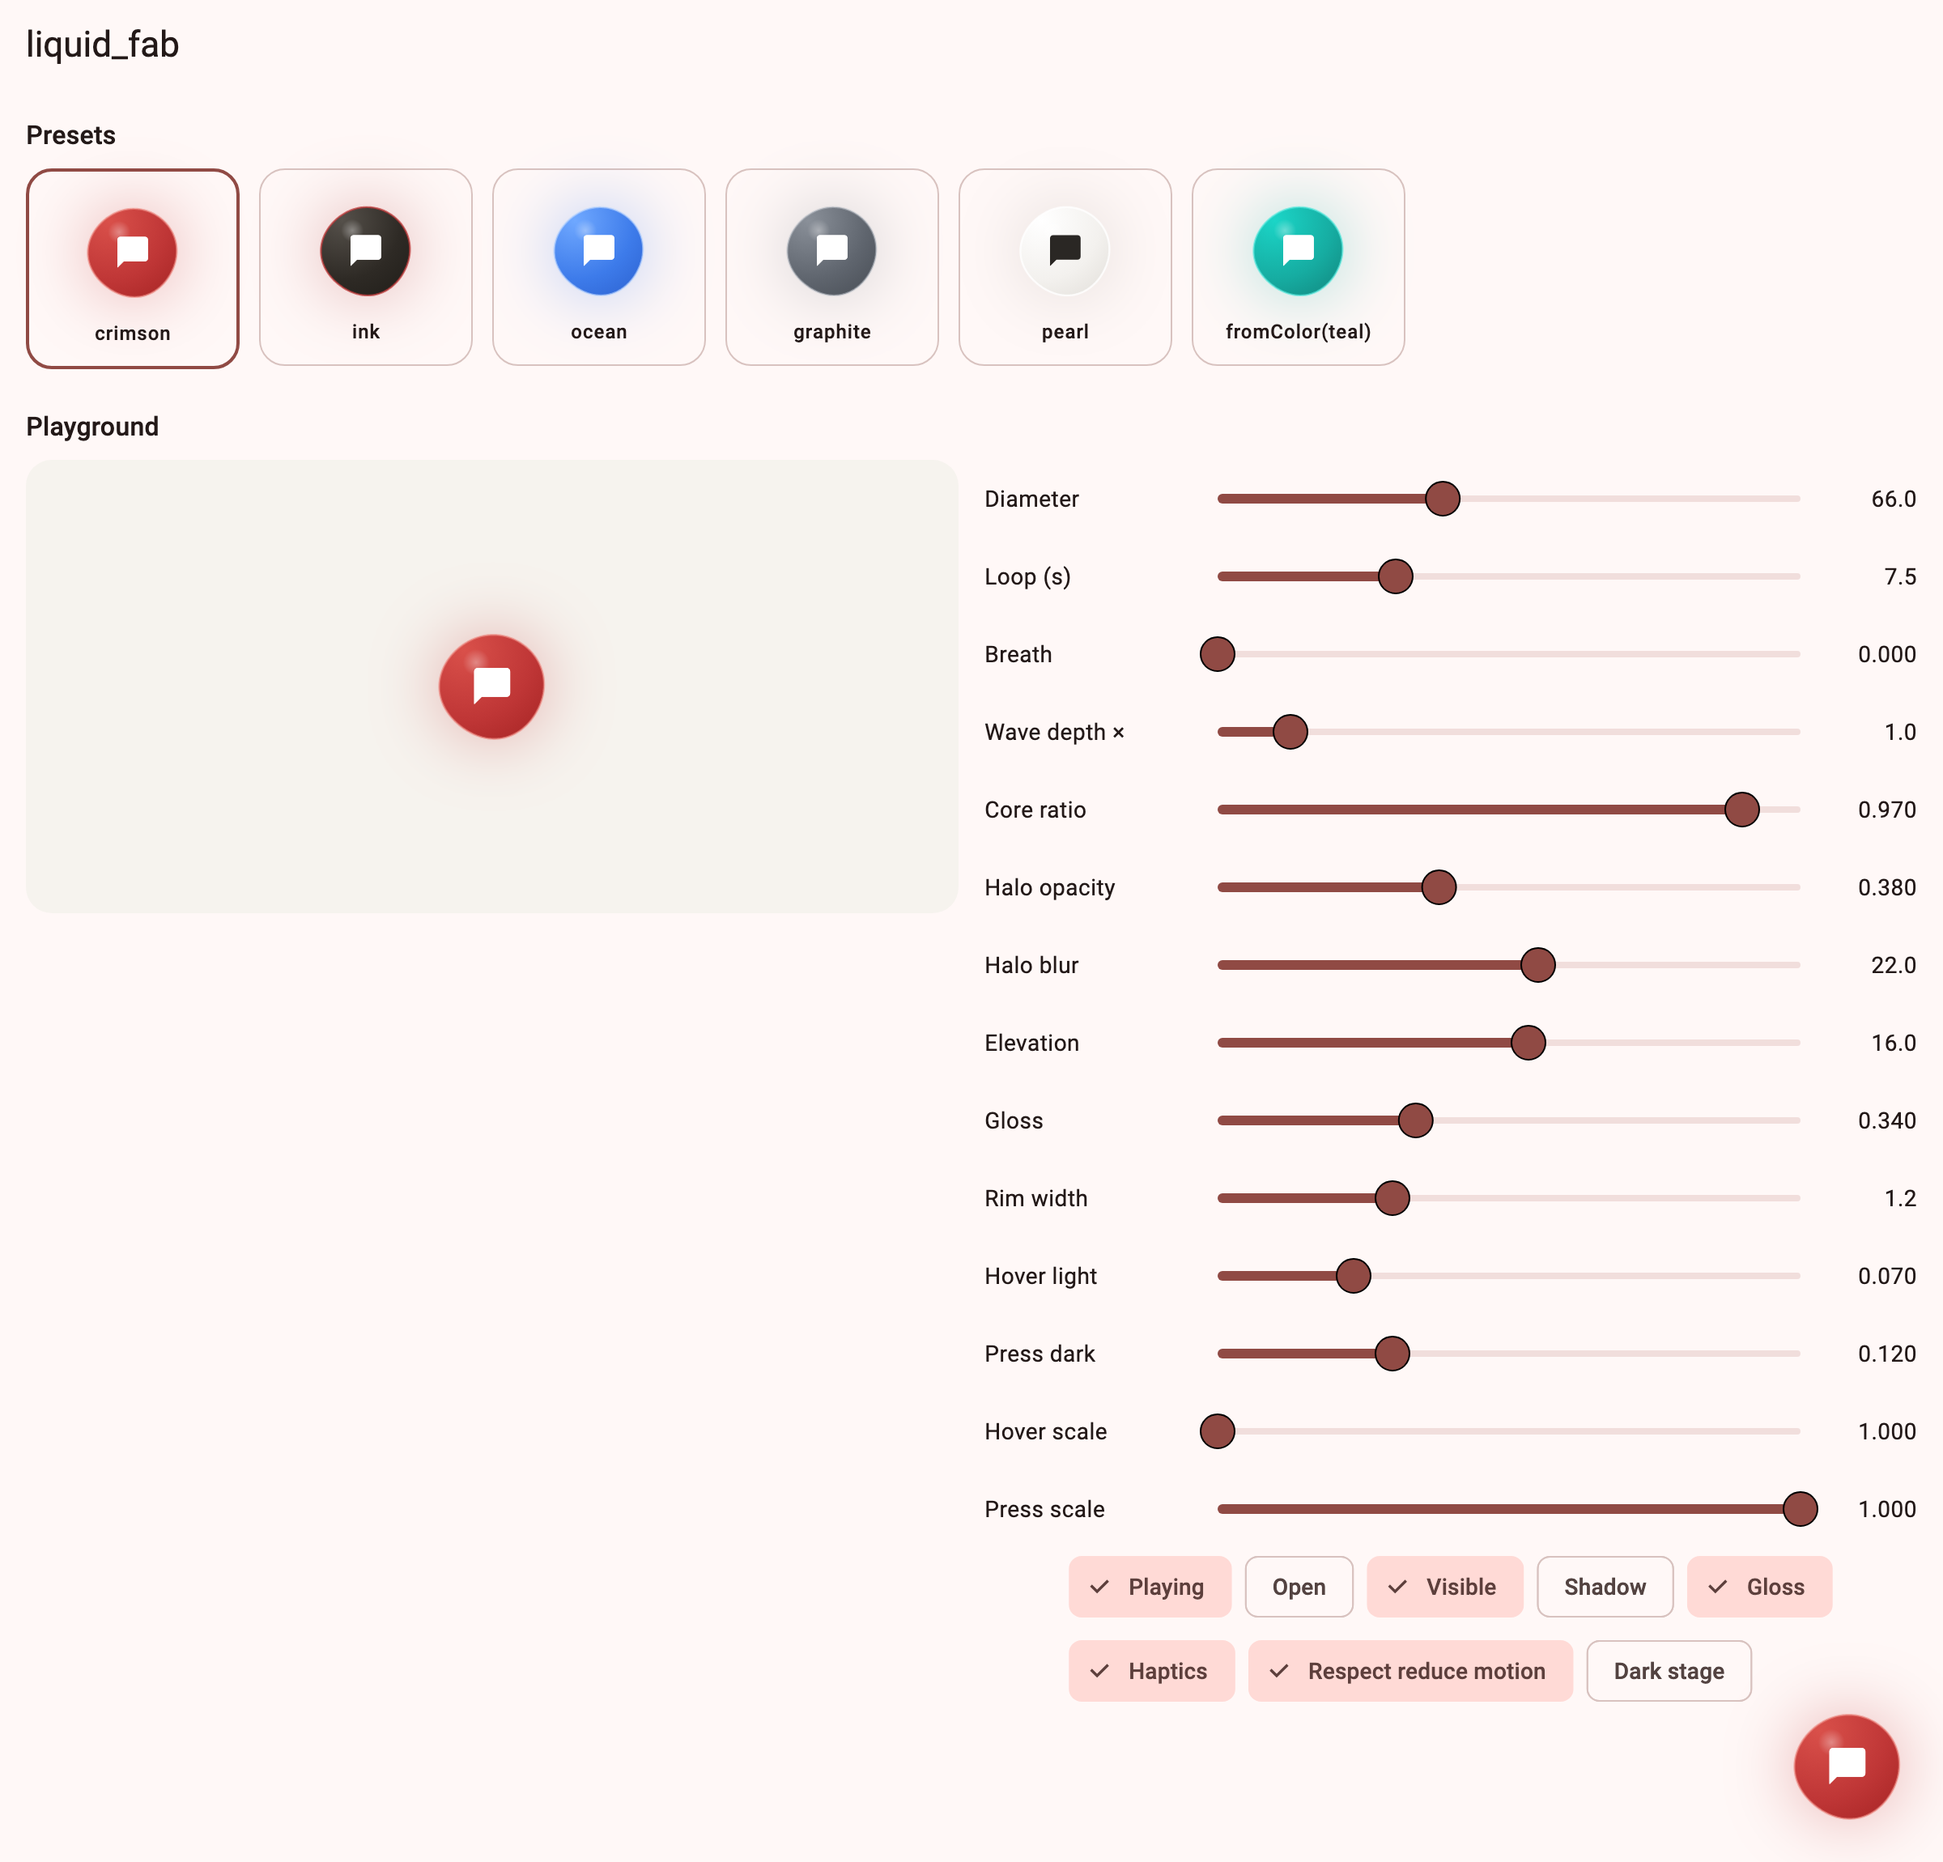
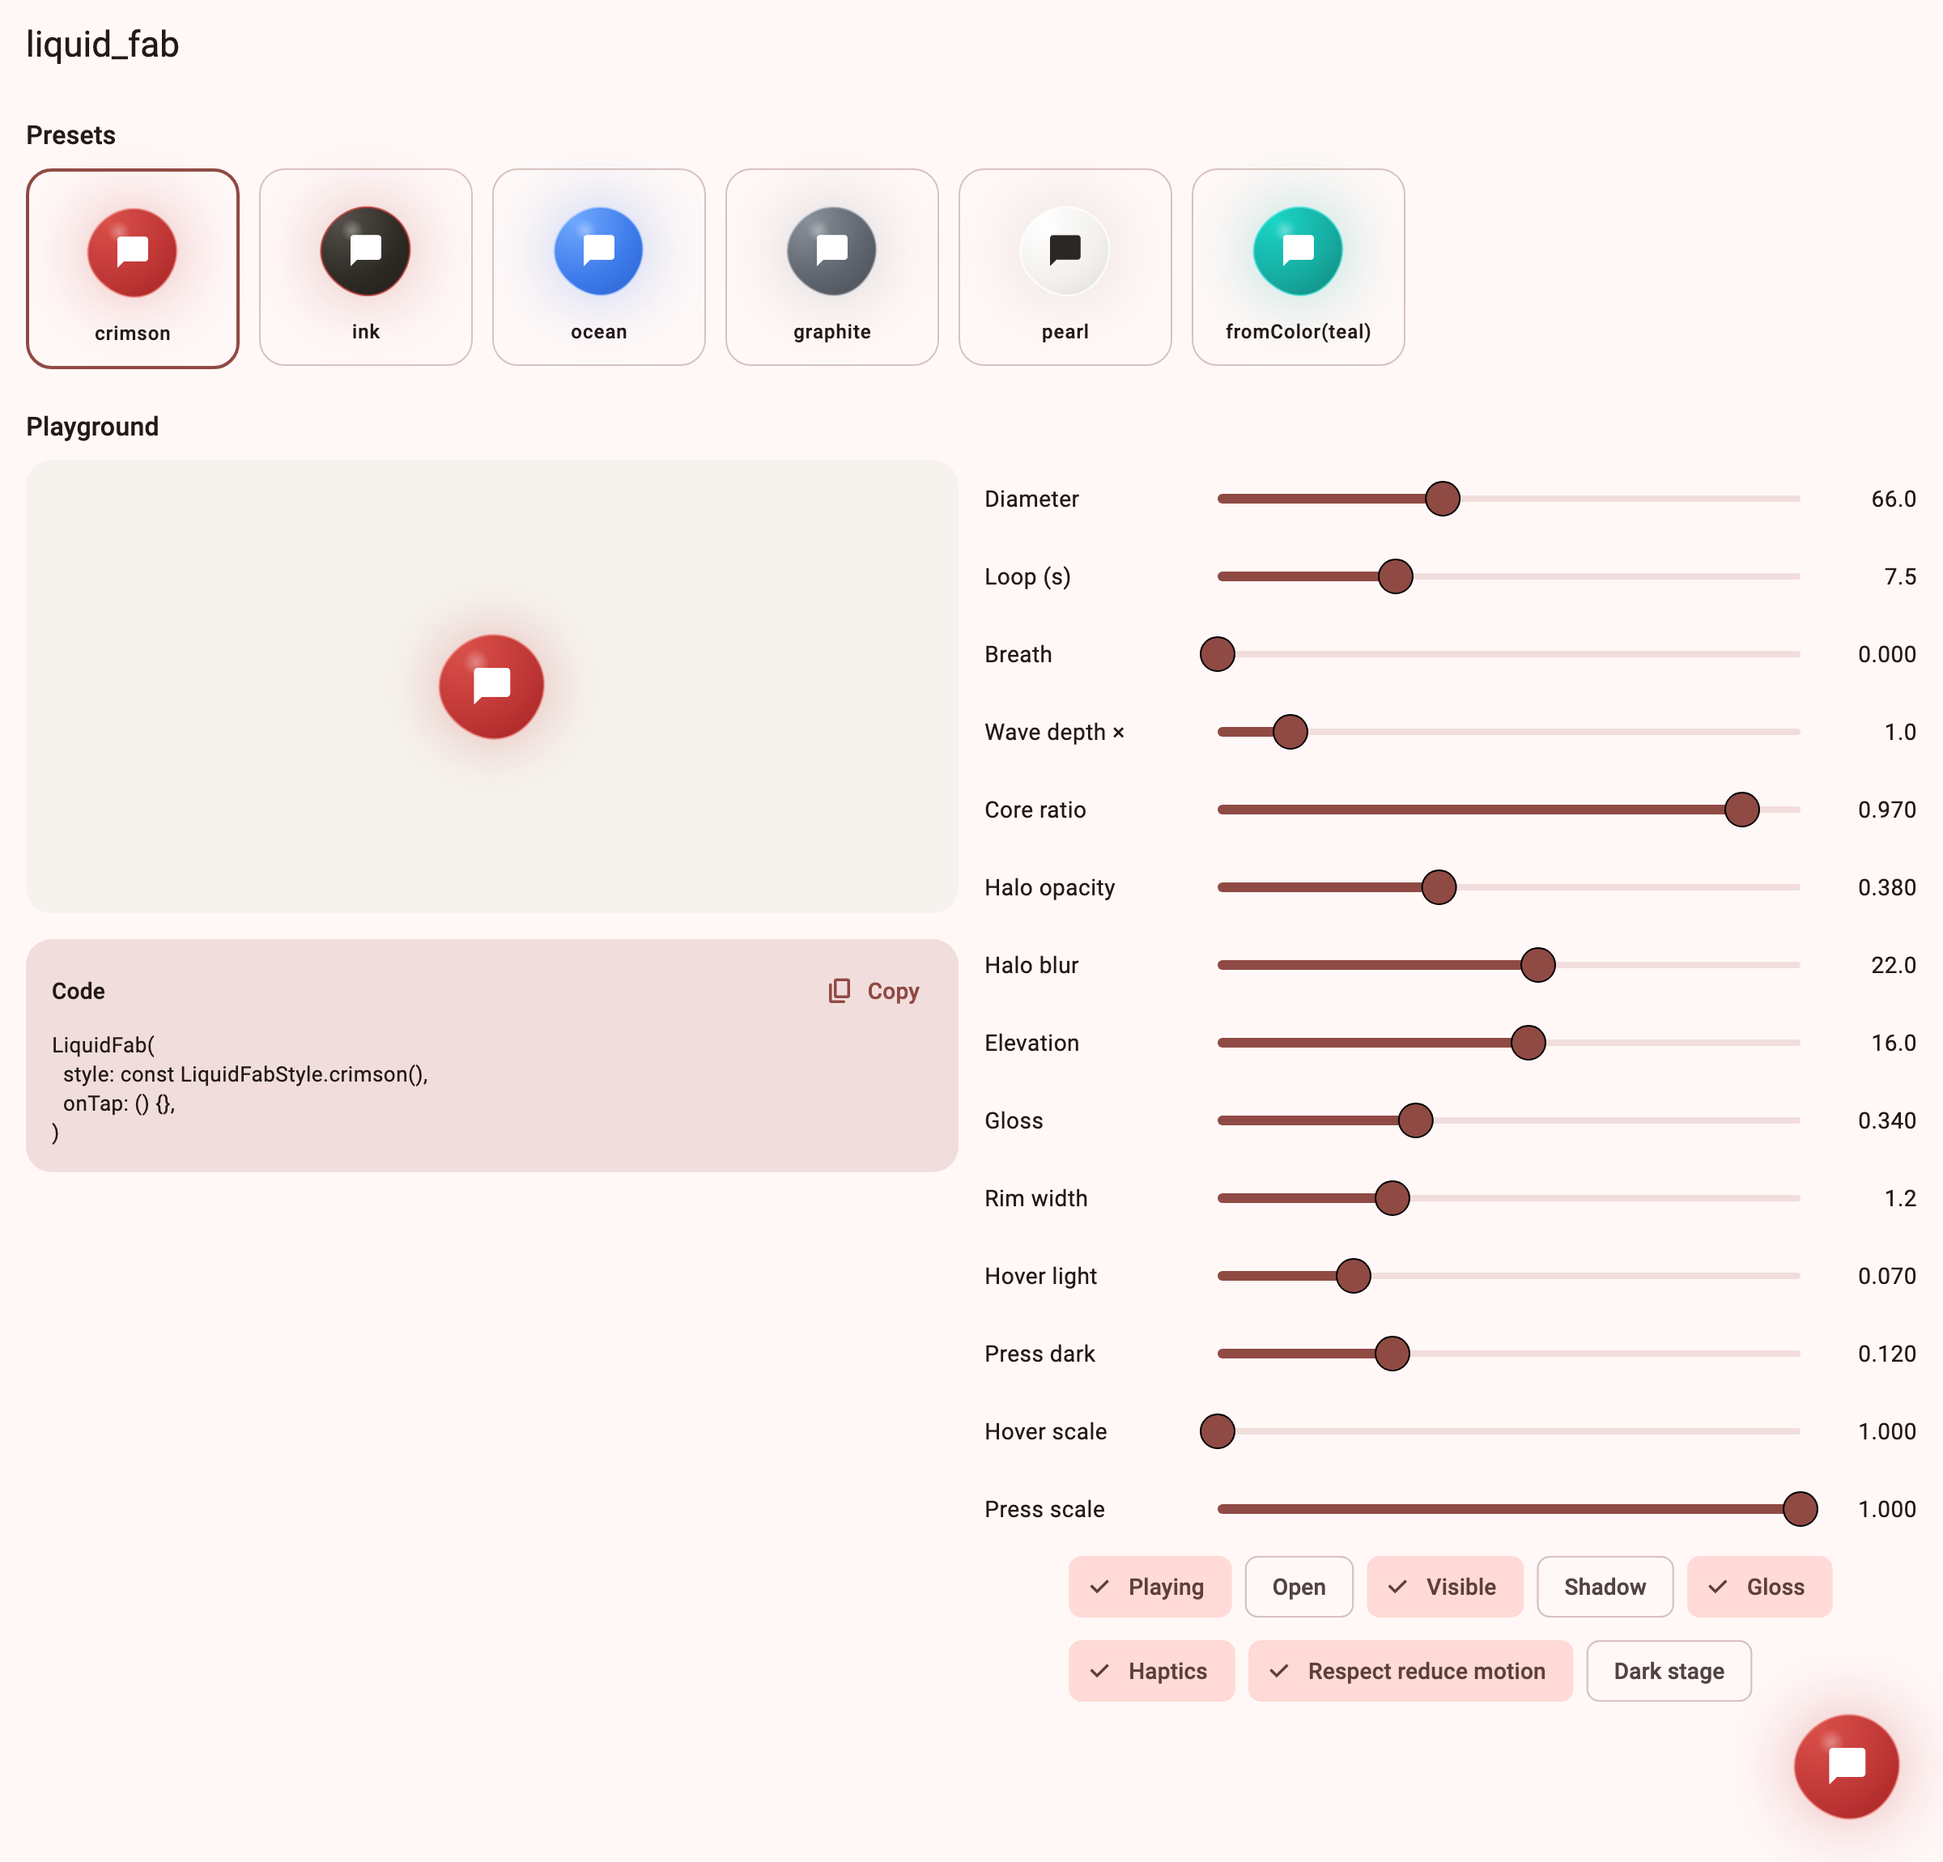
liquid_fab 0.1.1: link the live demo, show code in the playground
The example playground now shows the Dart for its current settings with a
copy button, and runs live on GitHub Pages (example/tool/deploy_demo.sh).
The README links the demo and the pubspec uses it as the homepage.

Changed region(s): [[0.0, 0.4939, 0.5, 0.6483]]

diff --git a/example/lib/main.dart b/example/lib/main.dart
@@ -1,4 +1,5 @@
 import 'package:flutter/material.dart';
+import 'package:flutter/services.dart';
 import 'package:liquid_fab/liquid_fab.dart';
 
 void main() => runApp(const ExampleApp());
@@ -29,6 +30,23 @@ final _presets = <String, LiquidFabStyle>{
   'pearl': const LiquidFabStyle.pearl(),
   'fromColor(teal)': LiquidFabStyle.fromColor(const Color(0xFF0F766E)),
 };
+
+/// How each preset is written in Dart, for the code snippet.
+const _presetCode = <String, String>{
+  'crimson': 'const LiquidFabStyle.crimson()',
+  'ink': 'const LiquidFabStyle.ink()',
+  'ocean': 'const LiquidFabStyle.ocean()',
+  'graphite': 'const LiquidFabStyle.graphite()',
+  'pearl': 'const LiquidFabStyle.pearl()',
+  'fromColor(teal)': 'LiquidFabStyle.fromColor(const Color(0xFF0F766E))',
+};
+
+/// A number as short as it can be at three decimals: 0.380 -> 0.38.
+String _num(double v) {
+  var t = v.toStringAsFixed(3);
+  if (t.contains('.')) t = t.replaceFirst(RegExp(r'\.?0+$'), '');
+  return t.contains('.') ? t : '$t.0';
+}
 
 class _Home extends StatefulWidget {
   const _Home();
@@ -82,6 +100,64 @@ class _HomeState extends State<_Home> {
     );
   }
 
+  /// The Dart that builds the stage's ball: only what differs from the
+  /// preset and the widget's defaults.
+  String get _code {
+    final base = _presets[_preset]!;
+    final style = <String>[];
+    void num(String name, double value, double preset) {
+      if (_num(value) != _num(preset)) style.add('$name: ${_num(value)}');
+    }
+
+    num('coreRatio', _core, base.coreRatio);
+    if (_num(_waveScale) != '1.0') {
+      style.add(
+        'waves: [\n      for (final w in LiquidFabStyle.defaultWaves)\n'
+        '        w.scaled(${_num(_waveScale)}),\n    ]',
+      );
+    }
+    num('breathAmount', _breath, base.breathAmount);
+    num('haloOpacity', _haloOpacity, base.haloOpacity);
+    num('haloBlur', _haloBlur, base.haloBlur);
+    num('hoverOverlayOpacity', _hoverLight, base.hoverOverlayOpacity);
+    num('pressOverlayOpacity', _pressDark, base.pressOverlayOpacity);
+    if (_shadow != base.showShadow) style.add('showShadow: $_shadow');
+    if (_shadow) {
+      num('elevation', _elevation, base.elevation);
+      num('hoverElevation', _elevation, base.hoverElevation);
+    }
+    if (_gloss != base.showGloss) style.add('showGloss: $_gloss');
+    if (_gloss) num('glossOpacity', _glossOpacity, base.glossOpacity);
+    num('rimWidth', _rimWidth, base.rimWidth);
+
+    var preset = _presetCode[_preset]!;
+    if (style.isNotEmpty) {
+      // copyWith isn't const, so the preset loses its const.
+      preset = preset.replaceFirst('const ', '');
+      preset = '$preset.copyWith(\n    ${style.join(',\n    ')},\n  )';
+    }
+
+    final args = <String>['style: $preset'];
+    if (_num(_diameter) != '66.0') args.add('diameter: ${_num(_diameter)}');
+    if (_num(_loopSeconds) != '7.5') {
+      args.add(
+        'loopDuration: const Duration(milliseconds: '
+        '${(_loopSeconds * 1000).round()})',
+      );
+    }
+    if (!_playing) args.add('playing: false');
+    if (!_respectReduceMotion) args.add('respectReduceMotion: false');
+    if (!_haptics) args.add('enableHaptics: false');
+    if (_num(_hoverScale) != '1.0') {
+      args.add('hoverScale: ${_num(_hoverScale)}');
+    }
+    if (_num(_pressScale) != '1.0') {
+      args.add('pressScale: ${_num(_pressScale)}');
+    }
+    args.add('onTap: () {}');
+    return 'LiquidFab(\n  ${args.join(',\n  ')},\n)';
+  }
+
   void _pickPreset(String name) {
     final s = _presets[name]!;
     setState(() {
@@ -127,6 +203,7 @@ class _HomeState extends State<_Home> {
             ),
           );
           final controls = _controls(theme);
+          final code = _CodePanel(code: _code);
           return ListView(
             padding: const EdgeInsets.all(16),
             children: [
@@ -152,7 +229,11 @@ class _HomeState extends State<_Home> {
                 Row(
                   crossAxisAlignment: CrossAxisAlignment.start,
                   children: [
-                    Expanded(child: stage),
+                    Expanded(
+                      child: Column(
+                        children: [stage, const SizedBox(height: 16), code],
+                      ),
+                    ),
                     const SizedBox(width: 16),
                     Expanded(child: controls),
                   ],
@@ -161,6 +242,8 @@ class _HomeState extends State<_Home> {
                 stage,
                 const SizedBox(height: 16),
                 controls,
+                const SizedBox(height: 16),
+                code,
               ],
             ],
           );
@@ -257,6 +340,58 @@ class _Stage extends StatelessWidget {
     alignment: Alignment.center,
     child: child,
   );
+}
+
+/// The Dart for the current settings, with a copy button.
+class _CodePanel extends StatelessWidget {
+  const _CodePanel({required this.code});
+
+  final String code;
+
+  @override
+  Widget build(BuildContext context) {
+    final scheme = Theme.of(context).colorScheme;
+    return Container(
+      width: double.infinity,
+      padding: const EdgeInsets.fromLTRB(16, 8, 8, 16),
+      decoration: BoxDecoration(
+        color: scheme.surfaceContainerHighest,
+        borderRadius: BorderRadius.circular(16),
+      ),
+      child: Column(
+        crossAxisAlignment: CrossAxisAlignment.start,
+        children: [
+          Row(
+            children: [
+              Text('Code', style: Theme.of(context).textTheme.titleSmall),
+              const Spacer(),
+              TextButton.icon(
+                icon: const Icon(Icons.copy_rounded, size: 18),
+                label: const Text('Copy'),
+                onPressed: () {
+                  Clipboard.setData(ClipboardData(text: code));
+                  ScaffoldMessenger.of(context)
+                    ..hideCurrentSnackBar()
+                    ..showSnackBar(
+                      const SnackBar(content: Text('Copied to the clipboard')),
+                    );
+                },
+              ),
+            ],
+          ),
+          SelectableText(
+            code,
+            style: const TextStyle(
+              fontFamily: 'monospace',
+              fontFamilyFallback: ['Menlo', 'Consolas', 'Courier New'],
+              fontSize: 13,
+              height: 1.4,
+            ),
+          ),
+        ],
+      ),
+    );
+  }
 }
 
 class _PresetTile extends StatelessWidget {

diff --git a/example/tool/readme_media_test.dart b/example/tool/readme_media_test.dart
@@ -61,6 +61,9 @@ void main() {
       'Roboto-Bold.ttf',
     ]);
     await _loadFont('MaterialIcons', ['MaterialIcons-Regular.otf']);
+    // The SDK ships no monospace font; the web build falls back to a sans
+    // face for the code panel too, so this matches what visitors see.
+    await _loadFont('monospace', ['Roboto-Regular.ttf']);
   });
 
   testWidgets('presets loop', (tester) async {

diff --git a/README.md b/README.md
@@ -5,6 +5,9 @@ slow travelling waves and it glows; the ball itself never changes size.
 Everything about it can be changed: size, motion, wave shape, colours, halo,
 hover and press light, gloss, rim, an optional shadow and interaction.
 
+**[Try it live](https://rudraveersandhu.github.io/liquid-fab/)**: drag the sliders, watch the ball change, and copy
+the Dart for the look you end up with.
+
 ![The six presets rippling; crimson swaps to a close icon and ocean lights up on hover](https://raw.githubusercontent.com/rudraveersandhu/liquid-fab/main/doc/presets.gif)
 
 * Round, but alive: the edge is a circle nudged by a few shallow sine waves.
@@ -198,7 +201,8 @@ The opt-in breath is not part of the painting; apply
 ## Example
 
 [`example/`](example/) has the presets and a playground with sliders for every
-major setting:
+major setting, plus the Dart for the current settings. It runs live at
+**https://rudraveersandhu.github.io/liquid-fab/**.
 
 ![The example app: preset tiles, a stage with the ball, and sliders](https://raw.githubusercontent.com/rudraveersandhu/liquid-fab/main/doc/playground.png)
 

diff --git a/CHANGELOG.md b/CHANGELOG.md
@@ -1,3 +1,10 @@
+## 0.1.1
+
+* Add a live demo at https://rudraveersandhu.github.io/liquid-fab/, linked from the README and as the
+  package homepage.
+* The example playground shows the Dart for the current settings, with a copy
+  button.
+
 ## 0.1.0
 
 * First release.

diff --git a/example/README.md b/example/README.md
@@ -12,3 +12,9 @@ To regenerate the README's GIF and screenshot from these widgets (needs
 ```bash
 ./tool/make_readme_media.sh
 ```
+
+To rebuild the live demo and publish it to the `gh-pages` branch:
+
+```bash
+./tool/deploy_demo.sh
+```
